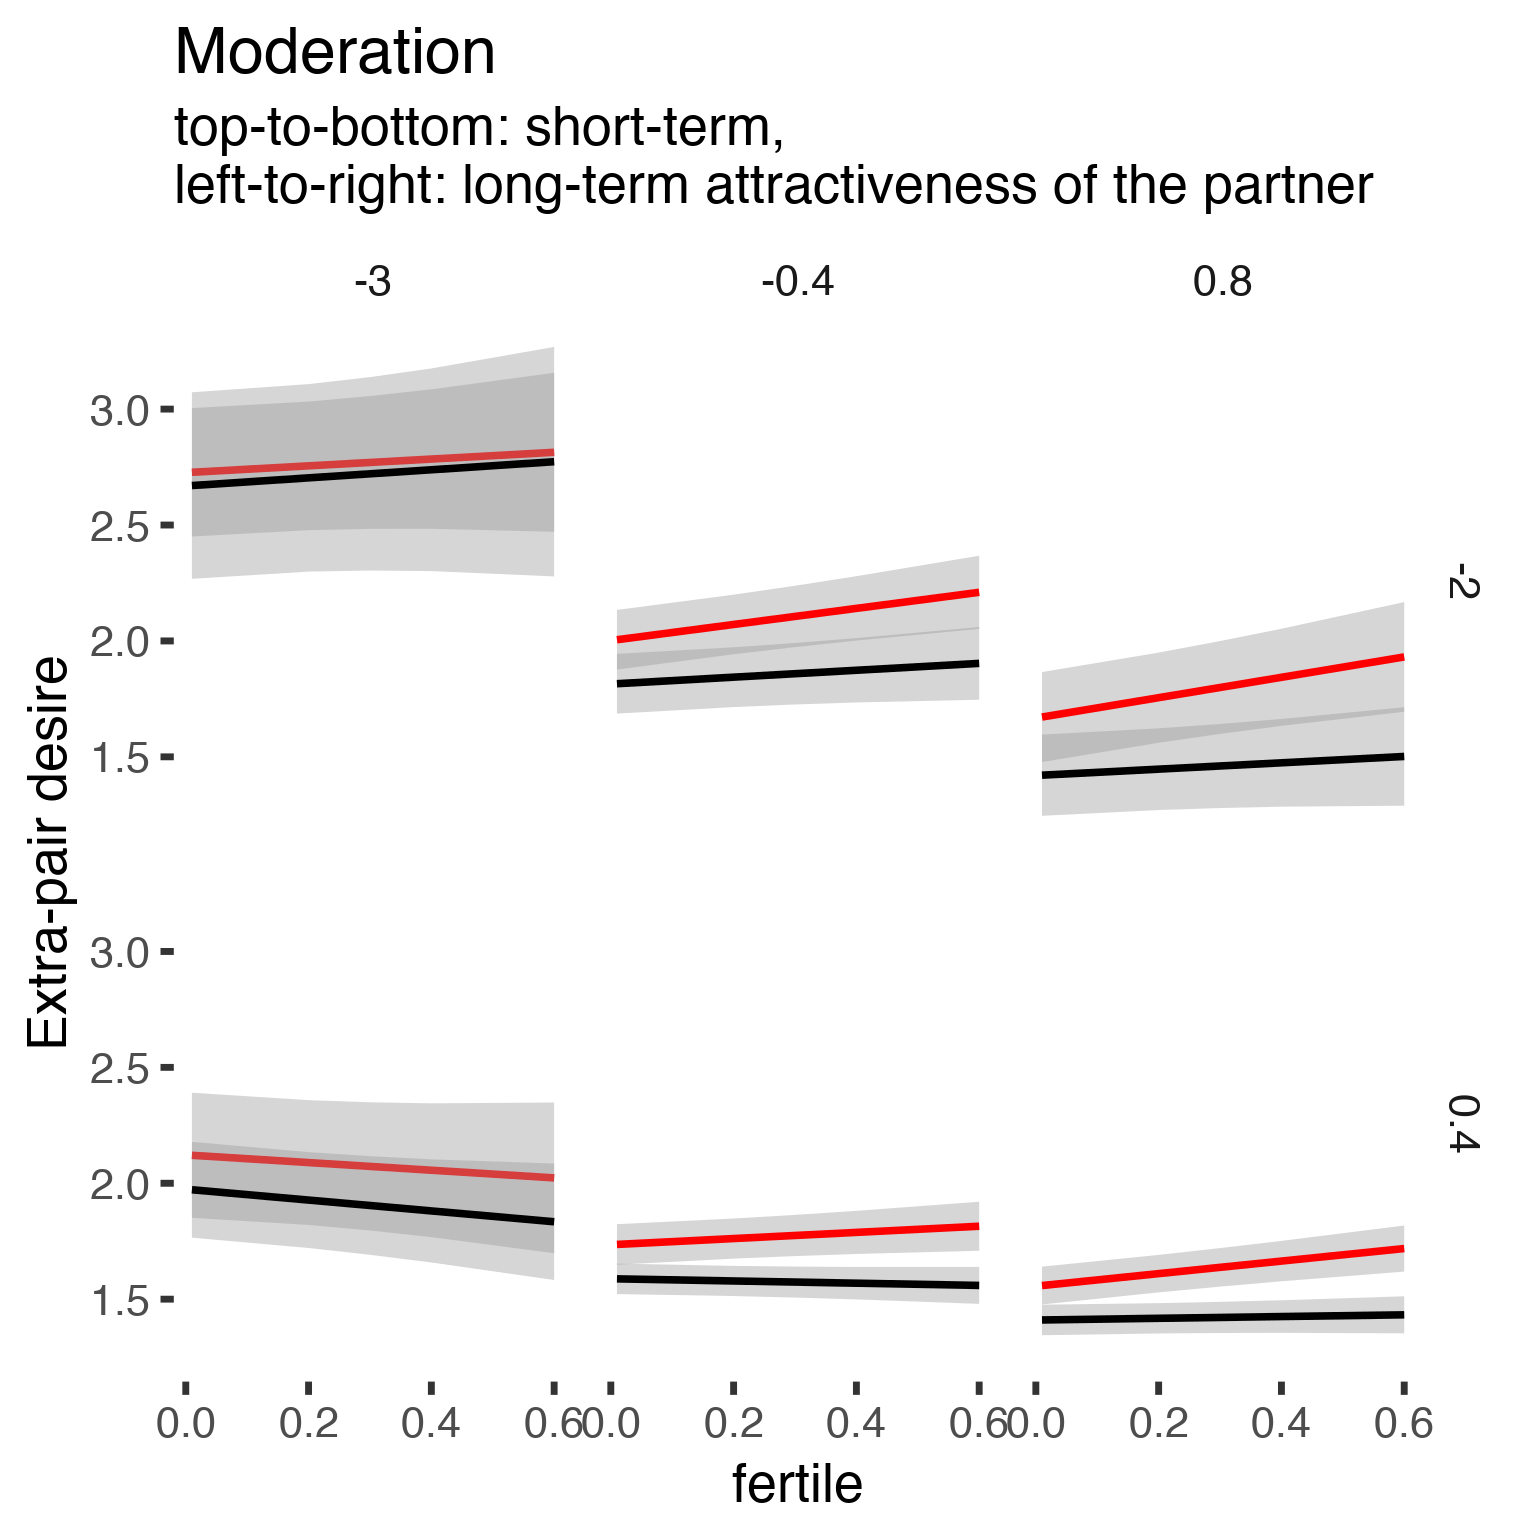
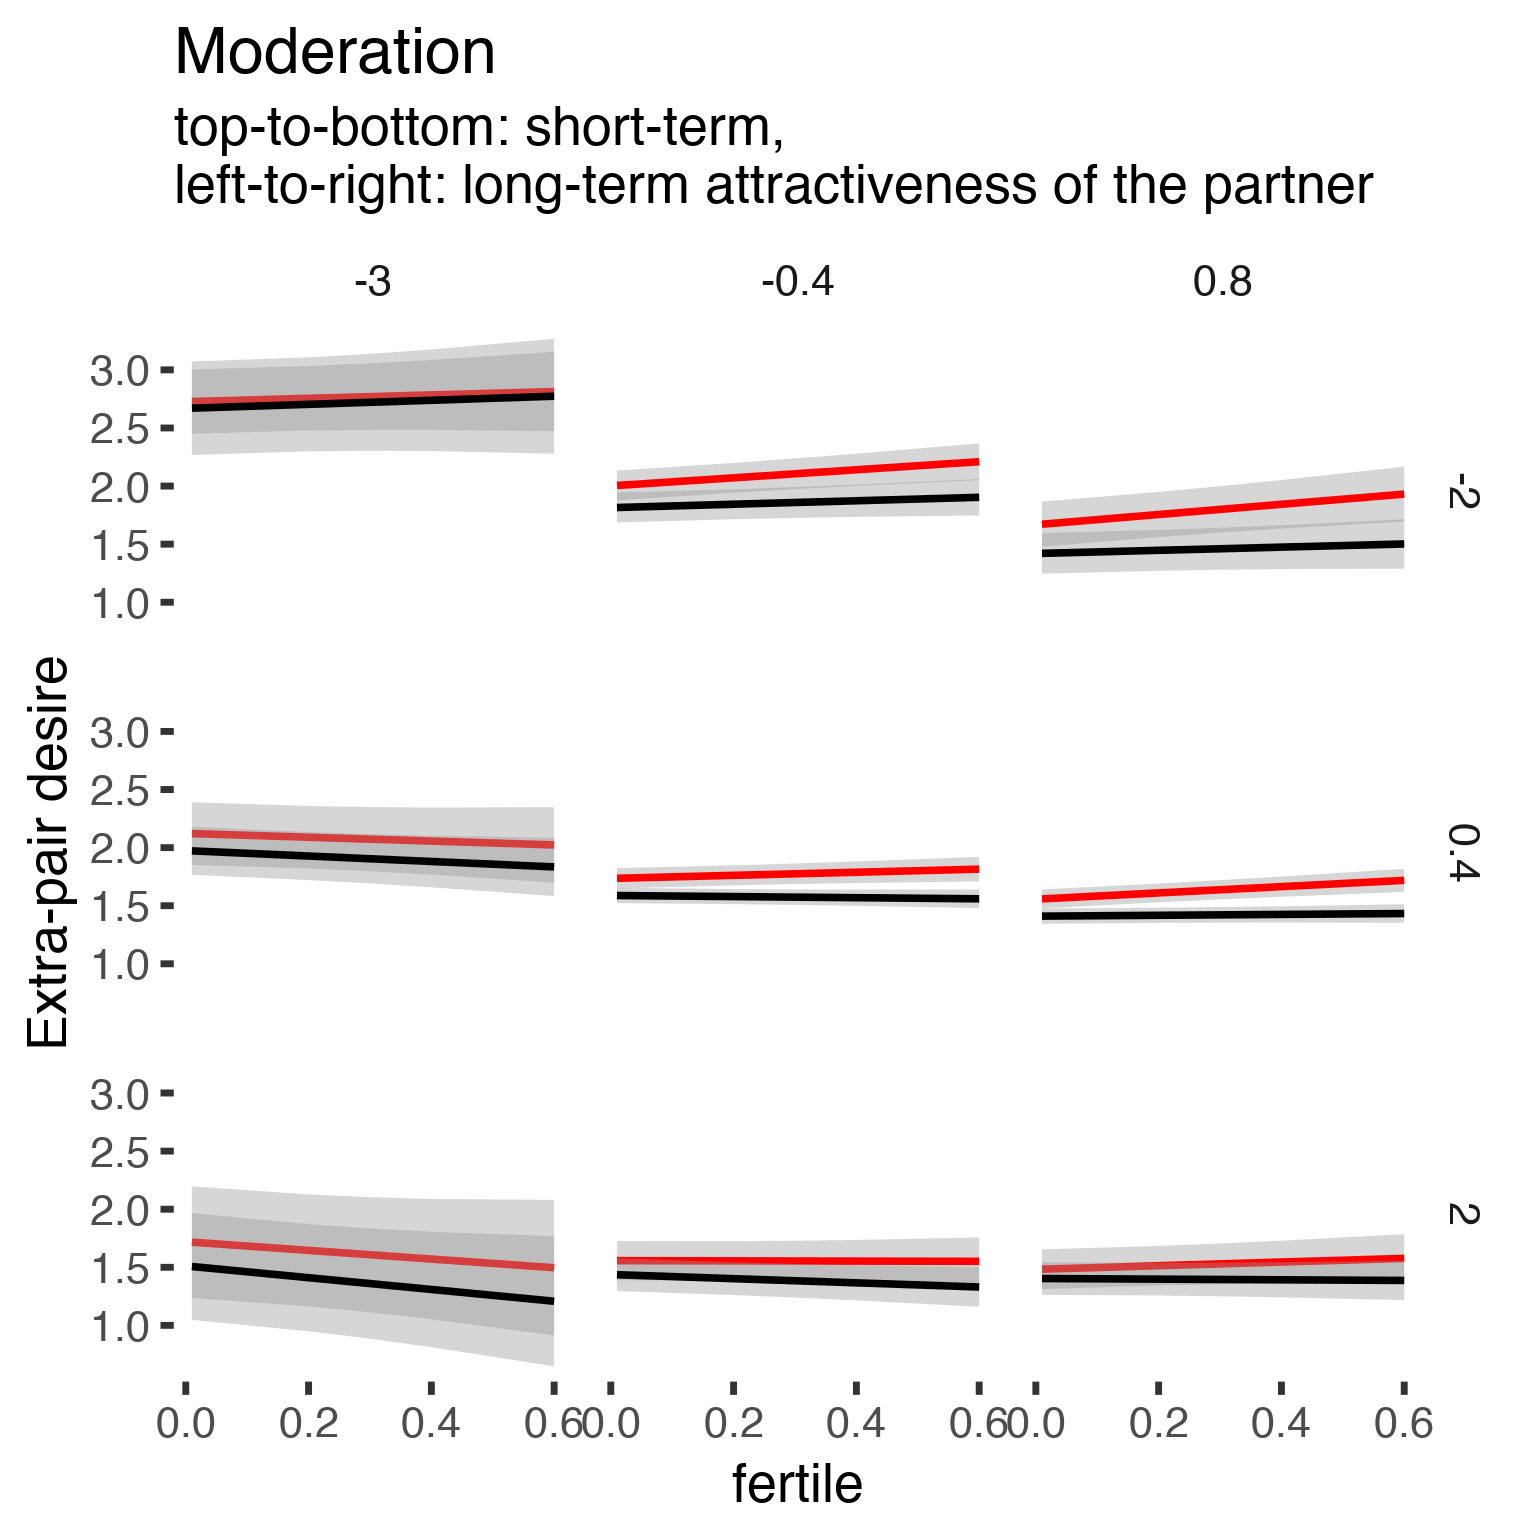
update text

diff --git a/3_fertility_robustness2.html b/3_fertility_robustness2.html
@@ -219,8 +219,6 @@ $(document).ready(function () {
 <p>These were conducted after further communication with Steve Gangestad, after publication.</p>
 <p><span style="background:red;width:20px;height:20px;display:inline-block;"></span> Cycling women (not on hormonal birth control)</p>
 <p><span style="background:black;width:20px;height:20px;display:inline-block;"></span> Women on hormonal birth control</p>
-<div id="load-data" class="section level2">
-<h2>Load data</h2>
 <pre class="r"><code>library(knitr)
 opts_chunk$set(fig.width = 8, fig.height = 8, cache = T, warning = T, message = F, cache = F)</code></pre>
 <pre class="r"><code>source(&quot;0_helpers.R&quot;)
@@ -245,21 +243,26 @@ library(effects)
 opts_chunk$set(dev = &quot;CairoPNG&quot;)
 options(width=8000)
 diary$age_group = cut(diary$age,c(18,20,25,30,35,70), include.lowest = T)</code></pre>
-</div>
-<div id="model-comparisons-extra-pair-desire-and-behaviour" class="section level2">
-<h2>Model comparisons extra-pair desire and behaviour</h2>
-<p>Steve Gangestad complained that when we wrote the following in the paper, we made a mistake.</p>
-<p>In results &gt; Further, none of the predicted moderation patterns turned significant when adding more women, and using slightly different items for the partner attractiveness moderator variables did not change the pattern.</p>
-<p>In discussion &gt; There was insufficient evidence for moderation of male mate retention behavior, extra-pair, or in-pair desire by the partner’s attractiveness (no matter whether it was assessed as relative to self, sexual, or physical), as predicted by the good genes ovulatory shift hypothesis. Although some patterns descriptively pointed in the predicted direction, none of the predicted patterns were significant, and some were opposite to our predictions. Because only 144 naturally cycling women remained for our preregistered analyses, statistical power may have been insufficient to detect plausible moderation effect sizes. However, we found no evidence for moderation effects in the more inclusive sample of our robustness tests either. Although our sample sizes are bigger than many published studies that reported a moderation effect (Haselton &amp; Gangestad, 2006; Pillsworth &amp; Haselton, 2006b), we would ideally prefer to exceed their power by a wider margin owing to winner’s curse, that is, effect sizes being overestimated through selection and publication bias.</p>
+<p>Steve Gangestad claimed (via email) that when we wrote the following in the paper, we made a mistake.</p>
+<p>In results:</p>
+<blockquote>
+<p>Further, none of the predicted moderation patterns turned significant when adding more women, and using slightly different items for the partner attractiveness moderator variables did not change the pattern.</p>
+</blockquote>
+<p>In discussion:</p>
+<blockquote>
+<p>There was insufficient evidence for moderation of male mate retention behavior, extra-pair, or in-pair desire by the partner’s attractiveness (no matter whether it was assessed as relative to self, sexual, or physical), as predicted by the good genes ovulatory shift hypothesis. Although some patterns descriptively pointed in the predicted direction, none of the predicted patterns were significant, and some were opposite to our predictions. Because only 144 naturally cycling women remained for our preregistered analyses, statistical power may have been insufficient to detect plausible moderation effect sizes. However, we found no evidence for moderation effects in the more inclusive sample of our robustness tests either. Although our sample sizes are bigger than many published studies that reported a moderation effect (Haselton &amp; Gangestad, 2006; Pillsworth &amp; Haselton, 2006b), we would ideally prefer to exceed their power by a wider margin owing to winner’s curse, that is, effect sizes being overestimated through selection and publication bias.</p>
+</blockquote>
 <blockquote>
 <p>Although further tests should be conducted, the good genes ovulatory shift hypothesis could be wrong, given that we could not replicate previously reported moderators.</p>
 </blockquote>
 <blockquote>
 <p>In contrast to previous reports, we found no evidence that sexual desire shifted more strongly among women who deemed their partner less sex- ually attractive.</p>
 </blockquote>
-<p>In one model, we allow two moderators of the fertility effect on extra-pair desire, namely partner’s long-term and short-term attractiveness, <a href="https://rubenarslan.github.io/ovulatory_shifts/3_fertility_robustness.html#partners-short-term-vs-long-term-attractiveness">summarised here</a>. In that model summary, we see a t value of -2.7 for the hypothesis-relevant interaction <code>fertile:partner_attractiveness_shortterm</code>. Steve Gangestad argues that this invalidates our statement in the results section, that “none of the predicted moderation patterns turned significant when adding more women” and hence our discussion statement that we found “no evidence for moderation effects in the more inclusive sample of our robustness tests”.</p>
-<p>The confusion here is understandable, but we think we were consistent in how we presented and interpreted the evidence. We did not report a Wald t-test with Satterthwaite’s degrees of freedom method for the moderator analyses (as computed by the <code>lmerTest</code> package) here. Instead, we formulated a baseline model without the focal interaction term and compared the moderation model to that using the <code>anova</code> function, which performs a likelihood ratio test. This likelihood ratio test yielded a reported p value of .026, which was not significant according the threshold we set ourselves (ignoring for the moment issues with interpreting p values in our non-preregistered robustness checks). Why do these two methods yield different conclusions? I don’t think we need to ask which one is “the right p value”, because we’ve left the realm of appropriate application of p values behind long ago. We chose to focus on the LR test because we thought it was better and reported this consistently. But I noticed one real (but ultimately unimportant) mistake in our analysis, and took this discussion with Steve as a prompt to examine this moderation in more detail.</p>
-<p>The baseline model we specified in the publication did not include the interaction between partners’ long-term attractiveness and fertile. If moderation by long-term attractiveness is not the focal test, as I understand Steve Gangestad to argue, it should be omitted.</p>
+<p>In one model, we allow two moderators of the fertility effect on extra-pair desire, namely partner’s long-term and short-term attractiveness, <a href="3_fertility_robustness.html#partners-short-term-vs-long-term-attractiveness">summarised here</a>. In that model summary, for one of the moderator specifications (ST vs. LT attractiveness), Steve Gangestad saw a t value of -2.7 for the hypothesis-relevant interaction <code>fertile:partner_attractiveness_shortterm</code>. He argues that this invalidates our statement in the results section, that “none of the predicted moderation patterns turned significant when adding more women” and hence our discussion statement that we found “no evidence for moderation effects in the more inclusive sample of our robustness tests”.</p>
+<p>The confusion here is understandable, but we think we were consistent in how we presented and interpreted the evidence. We did not report a Wald t-test with Satterthwaite’s degrees of freedom method for the moderator analyses (as computed by the <code>lmerTest</code> package) here. Instead, we formulated a baseline model without the focal interaction term and compared the moderation model to that using the <code>anova</code> function, which performs a likelihood ratio test. This likelihood ratio test yielded a reported p value of .026, which was not significant according to the threshold of .01 we set (ignoring for the moment the issues with interpreting p values in our non-preregistered robustness checks). Why do these two methods yield different conclusions? See <a href="http://thestatsgeek.com/2014/02/08/wald-vs-likelihood-ratio-test/">here</a> and <a href="https://stats.stackexchange.com/questions/193643/likelihood-ratio-vs-wald-test">here</a> for some discussion. I don’t think we need to ask which one is “the right p value”, because we’ve left the realm of appropriate application of p values behind long ago. We chose to focus on the LR test because we thought it was better and we reported this consistently and it’s clearly the only p value we reported for moderator analyses in our supplement. Still, I noticed one real (but ultimately unimportant) mistake in our analysis, and took this discussion with Steve as a prompt to examine this moderation in more detail.</p>
+<p>The baseline model we specified in the publication did not include the interaction between partners’ long-term attractiveness and fertile. If moderation by long-term attractiveness is not the focal test, as I understand Steve Gangestad to argue (and I think I agree), it should be omitted.</p>
+<div id="model-comparisons-extra-pair-desire-and-behaviour" class="section level2">
+<h2>Model comparisons extra-pair desire and behaviour</h2>
 <pre class="r"><code>epd1_m0_old = lmer(extra_pair ~ partner_attractiveness_longterm * included + partner_attractiveness_shortterm * included + partner_attractiveness_longterm * partner_attractiveness_shortterm + included * (menstruation + fertile) + fertile_mean + ( 1 | person), data = diary)</code></pre>
 <p>We can specify this new baseline model here.</p>
 <pre class="r"><code>epd1_m0 = lmer(extra_pair ~ partner_attractiveness_longterm * included + partner_attractiveness_shortterm * included + partner_attractiveness_longterm * partner_attractiveness_shortterm + partner_attractiveness_longterm * included * fertile + included * (menstruation + fertile) + fertile_mean + ( 1 | person), data = diary)</code></pre>
@@ -352,7 +355,7 @@ diary$age_group = cut(diary$age,c(18,20,25,30,35,70), include.lowest = T)</code>
 <p>Let’s plot this to see the shape of the effect. The predictors are z-scored, but especially LT attractiveness is not normally distributed and ranges from -4 to 0.8. For ST attractiveness, the range is -3.3 to 1.6 so we take slightly odd cutpoints that map most of the range of the data.</p>
 <pre class="r"><code>effs = allEffects(epd1_m)
 effs = data.frame(effs$`partner_attractiveness_longterm:included:partner_attractiveness_shortterm:fertile`) %&gt;% 
-  filter(round(partner_attractiveness_longterm,1) %in% c(-3, -0.4,0.8),round(partner_attractiveness_shortterm,1) %in% c(-2,0.4,1.6))
+  filter(round(partner_attractiveness_longterm,1) %in% c(-3, -0.4,0.8),round(partner_attractiveness_shortterm,1) %in% c(-2,0.4,2))
 ggplot(effs, aes(fertile, fit, ymin = lower, ymax = upper, color = included)) + 
   facet_grid(partner_attractiveness_shortterm ~ partner_attractiveness_longterm) +
   geom_smooth(stat=&#39;identity&#39;) +
@@ -361,7 +364,8 @@ ggplot(effs, aes(fertile, fit, ymin = lower, ymax = upper, color = included)) +
   ggtitle(&quot;Moderation&quot;, &quot;top-to-bottom: short-term,\nleft-to-right: long-term attractiveness of the partner&quot;)+
   ylab(&quot;Extra-pair desire and behaviour&quot;)</code></pre>
 <p><img src="3_fertility_robustness2_files/figure-html/unnamed-chunk-7-1.png" width="768" /></p>
-<p>Now, in our robustness checks, we omitted random slopes for menstruation and fertile effects. I believe this leads us to overestimate the certainty in results, but didn’t worry about it, because I was short on computational time (given that we estimated thousands of mixed models) and thought the models already showed sufficiently clearly that estimates were uncertain and evidence did not clearly favour moderators. However, Steve disagreed with this somewhat, thinking the Wald t-test based p value of .006 above is evidence that we disregarded. We focused on the model comparisons, and think this is reasonable, but what happens to the NHST p value when we allow for random slopes?</p>
+<p>Now, in our robustness checks, we omitted random slopes for menstruation and fertile effects.</p>
+<p>I believe this leads us to overestimate the certainty in results, but didn’t worry about it, because I was short on computational time (given that we estimated thousands of mixed models) and thought the models already showed sufficiently clearly that estimates were uncertain and evidence did not favour moderators. However, Steve Gangestad disagreed with this somewhat, thinking the Wald t-test based p value of .006 above is evidence that we disregarded or dismissed. We used the likelihood ratio test, and think this is reasonable, but for the sake of the argument, what happens to the NHST p value when we allow for random slopes?</p>
 <pre class="r"><code>epd1_m0_r = lmer(extra_pair ~ partner_attractiveness_longterm * included + partner_attractiveness_shortterm * included + partner_attractiveness_longterm * partner_attractiveness_shortterm + partner_attractiveness_longterm * included * fertile + included * (menstruation + fertile) + fertile_mean + ( 1 + menstruation + fertile | person), data = diary)
 epd1_m_r = lmer(extra_pair ~ partner_attractiveness_longterm * included + partner_attractiveness_shortterm * included + partner_attractiveness_longterm * partner_attractiveness_shortterm + partner_attractiveness_shortterm * partner_attractiveness_longterm * included * fertile + included * (menstruation + fertile) + fertile_mean + ( 1 + menstruation + fertile | person), data = diary)</code></pre>
 <ol style="list-style-type: lower-alpha">
@@ -538,7 +542,7 @@ summary(epd1_m)</code></pre>
 ## Signif. codes:  0 &#39;***&#39; 0.001 &#39;**&#39; 0.01 &#39;*&#39; 0.05 &#39;.&#39; 0.1 &#39; &#39; 1</code></pre>
 <pre class="r"><code>effs = allEffects(epd1_m)
 effs = data.frame(effs$`partner_attractiveness_longterm:included:partner_attractiveness_shortterm:fertile`) %&gt;% 
-  filter(round(partner_attractiveness_longterm,1) %in% c(-3, -0.4,0.8),round(partner_attractiveness_shortterm,1) %in% c(-2,0.4,1.6))
+  filter(round(partner_attractiveness_longterm,1) %in% c(-3, -0.4,0.8),round(partner_attractiveness_shortterm,1) %in% c(-2,0.4,2))
 ggplot(effs, aes(fertile, fit, ymin = lower, ymax = upper, color = included)) + 
   facet_grid(partner_attractiveness_shortterm ~ partner_attractiveness_longterm) +
   geom_smooth(stat=&#39;identity&#39;) +
@@ -587,7 +591,7 @@ anova(epd1_m0_r, epd1_m_r)</code></pre>
 ## Signif. codes:  0 &#39;***&#39; 0.001 &#39;**&#39; 0.01 &#39;*&#39; 0.05 &#39;.&#39; 0.1 &#39; &#39; 1</code></pre>
 <pre class="r"><code>effs = allEffects(epd1_m_r)
 effs = data.frame(effs$`partner_attractiveness_longterm:included:partner_attractiveness_shortterm:fertile`) %&gt;% 
-  filter(round(partner_attractiveness_longterm,1) %in% c(-3, -0.4,0.8),round(partner_attractiveness_shortterm,1) %in% c(-2,0.4,1.6))
+  filter(round(partner_attractiveness_longterm,1) %in% c(-3, -0.4,0.8),round(partner_attractiveness_shortterm,1) %in% c(-2,0.4,2))
 ggplot(effs, aes(fertile, fit, ymin = lower, ymax = upper, color = included)) + 
   facet_grid(partner_attractiveness_shortterm ~ partner_attractiveness_longterm) +
   geom_smooth(stat=&#39;identity&#39;) +
@@ -596,6 +600,7 @@ ggplot(effs, aes(fertile, fit, ymin = lower, ymax = upper, color = included)) +
   ggtitle(&quot;Moderation&quot;, &quot;top-to-bottom: short-term,\nleft-to-right: long-term attractiveness of the partner&quot;)+
   ylab(&quot;Extra-pair desire&quot;)</code></pre>
 <p><img src="3_fertility_robustness2_files/figure-html/rob-12-2.png" width="768" /></p>
+<p>Here, we see that this association might turn significant according to the likelihood ratio test, depending on how you set things up (not with random slopes). But this is now really a post-hoc analysis, so for this reason and others spelled out below, I also used a Bayesian approach with LOO below.</p>
 </div>
 <div id="model-comparison-with-approximative-leave-one-out-cross-validation-in-brms" class="section level2">
 <h2>Model comparison with approximative leave-one-out cross-validation in brms</h2>
@@ -665,7 +670,7 @@ comp</code></pre>
 ## is a crude measure of effective sample size, and Rhat is the potential 
 ## scale reduction factor on split chains (at convergence, Rhat = 1).</code></pre>
 <p>Finally, what does a plot of the marginal effects show? The default plot doesn’t show it in the same pattern as above, so I make my own.</p>
-<pre class="r"><code>newd &lt;- expand.grid(included = c(&quot;cycling&quot;, &quot;horm_contra&quot;), fertile = unique(diary$fertile), partner_attractiveness_shortterm = c(-2,0.4,1.6),
+<pre class="r"><code>newd &lt;- expand.grid(included = c(&quot;cycling&quot;, &quot;horm_contra&quot;), fertile = unique(diary$fertile), partner_attractiveness_shortterm = c(-2,0.4,2),
             partner_attractiveness_longterm = c(-3, -0.4, 0.8), menstruation = &quot;no&quot;, fertile_mean = 0) %&gt;% na.omit()
 newd[, c(&quot;Estimate&quot;, &quot;Std.Error&quot;, &quot;lower&quot;, &quot;upper&quot;)] &lt;- fitted(epd1_m_r_b, newd, re_formula = NA)
 ggplot(newd, aes(fertile, Estimate, ymin = lower, ymax = upper, color = included)) + 
@@ -681,11 +686,11 @@ ggplot(newd, aes(fertile, Estimate, ymin = lower, ymax = upper, color = included
 </div>
 <div id="summary" class="section level2">
 <h2>Summary</h2>
-<p>In summary, we think we were consistent in saying that our data don’t provide evidence for the predicted moderation effect. However, they also do not rule out moderator effects of a smaller size than were previously reported. If this wasn’t clear, we’re happy to have corrected this misinterpretation. We did write</p>
+<p>In summary, we think we were consistent in saying that our data don’t provide evidence for the predicted moderation effect. However, they also do not rule out moderator effects of a smaller size than were previously reported. If this wasn’t clear, we’re happy to have corrected this misinterpretation. We wrote</p>
 <blockquote>
 <p>Although further tests should be conducted, the good genes ovulatory shift hypothesis could be wrong, given that we could not replicate previously reported moderators.</p>
 </blockquote>
-<p>We’ve collected data for a second study to test this and other theories again, with more data. We’re also involved in a larger project which aims to collect data across multiple labs in a Registered Report framework. These discussions may help us frame the predictions and models in this new project better.</p>
+<p>We really meant this, not just as a paean to uncertainty, but we actually acted on it. We’ve collected data for a second study to test this and other theories again, with more data and better measures. We’re also involved in a larger project which aims to collect data across multiple labs in a Registered Report framework. These discussions may help us frame the predictions and models in this new project better. We may also improve measurement of our moderators, the ones in this study were based on those used in previous studies and maybe suboptimal in some ways.</p>
 </div>
 </div>
 
